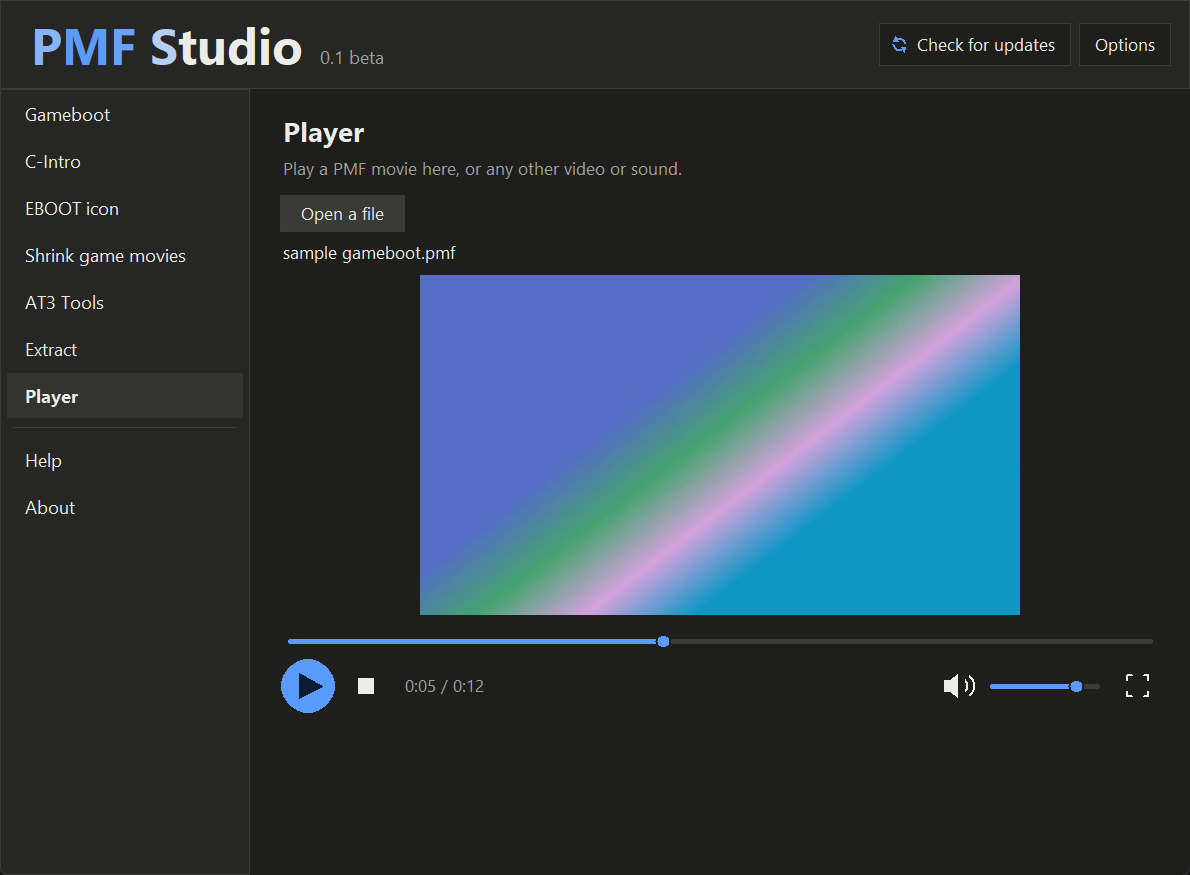
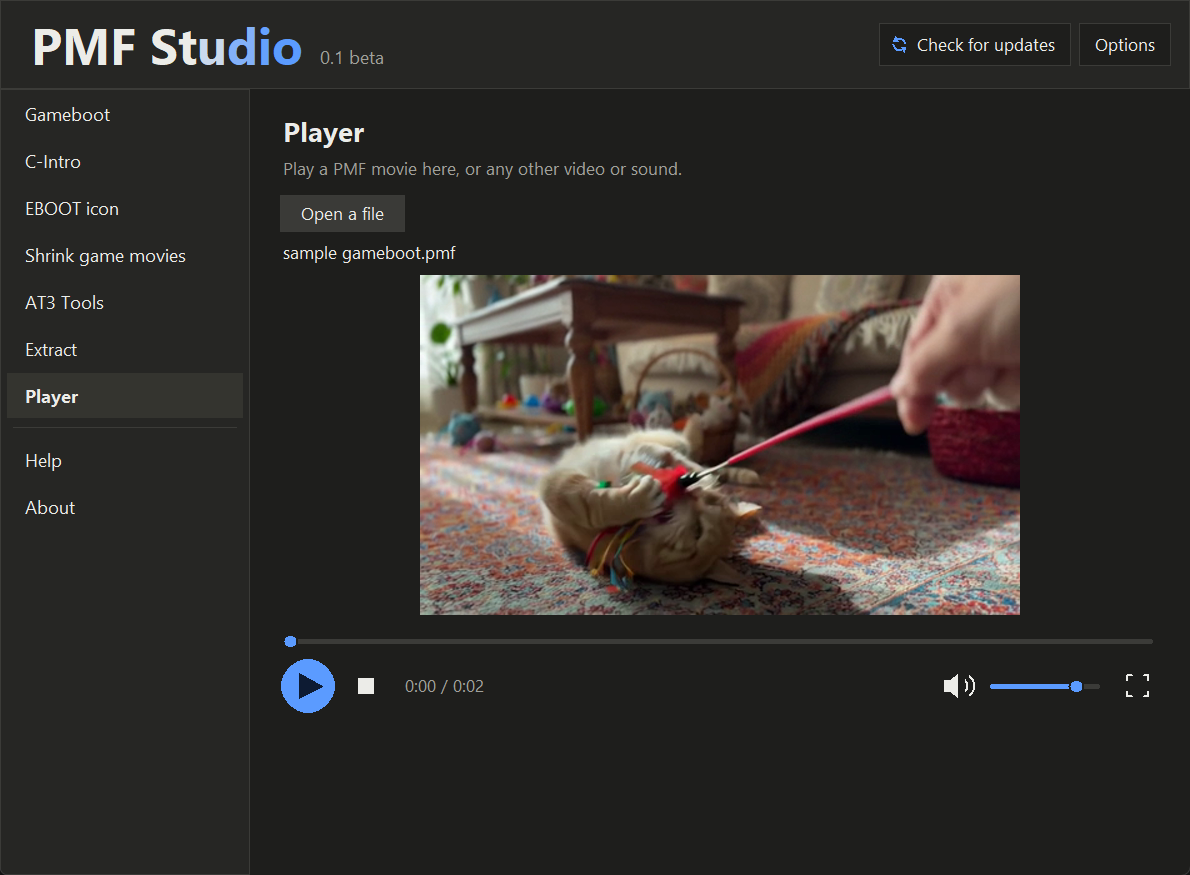
Screenshots: the author's own cat video instead of the test pattern; the screenshot tool picks a 2.4 s part like a real gameboot

Changed region(s): [[0.2487, 0.3086, 0.8706, 0.7406], [0.0311, 0.0309, 0.2487, 0.0926]]

diff --git a/tools/screenshots.py b/tools/screenshots.py
@@ -58,6 +58,13 @@ def pump(seconds):
         time.sleep(0.02)
 
 
+def pick_part(start, length):
+    """a gameboot is about 2.5 seconds: drag the block on the strip to a part of that length (the same call the mouse makes)"""
+    a.trim["bar"].set_selection(start, start + length)
+    a.trim_changed(start, start + length)
+    pump(0.5)
+
+
 def finish_job(limit=120):
     t = time.time()
     while a.busy and time.time() - t < limit:
@@ -82,6 +89,7 @@ def snap(name):
 a.show("gameboot")
 a.vars["movie"].set(longer)
 pump(9)
+pick_part(14.0, 2.4)
 snap("gameboot-long-movie")
 
 # 2. Gameboot, built for real from the short movie
@@ -89,6 +97,7 @@ a.show("gameboot")
 a.vars["movie"].set(movie)
 a.vars["out"].set(os.path.join(SAMPLES, "sample gameboot.pmf"))
 pump(4)
+pick_part(3.0, 2.4)
 a.run_gameboot()
 finish_job()
 snap("gameboot-built")
@@ -155,6 +164,7 @@ a.build_ui()
 a.show("gameboot")
 a.vars["movie"].set(longer)
 pump(9)
+pick_part(14.0, 2.4)
 snap("gameboot-light")
 a.quit_app()
 print("done ->", OUT)

diff --git a/README.md b/README.md
@@ -7,7 +7,7 @@ Its movie engine (`pmfkit`, standard library only) can also be used on its own f
 
 More: [gameboot built](docs/screenshots/gameboot-built.png), [EBOOT icon](docs/screenshots/eboot-icon.png),
 [Shrink game movies](docs/screenshots/shrink.png), [AT3 Tools](docs/screenshots/at3-tools.png), [Extract](docs/screenshots/extract.png), [Player](docs/screenshots/player.png),
-[light theme](docs/screenshots/gameboot-light.png). The pictures were made with made-up sample files.
+[light theme](docs/screenshots/gameboot-light.png). The pictures were made with made-up sample files and a short video of the author's own.
 
 ## What it does
 
